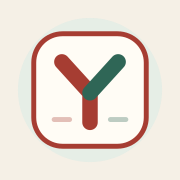
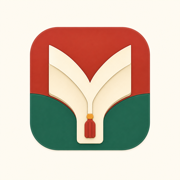
feat: add Lantern Glyph identity

diff --git a/tests/assets.test.ts b/tests/assets.test.ts
@@ -25,6 +25,8 @@ describe("Yuwenke identity assets", () => {
     expect(pngSize("apple-touch-icon.png")).toEqual([180, 180]);
     expect(pngSize("icon-192.png")).toEqual([192, 192]);
     expect(pngSize("icon-512.png")).toEqual([512, 512]);
+    expect(pngSize("yuwenke-mark.png")).toEqual([96, 96]);
+    expect(pngSize("favicon-32.png")).toEqual([32, 32]);
     expect(pngSize("og.png")).toEqual([1200, 630]);
     expect(icoSizes("favicon.ico")).toEqual([16, 32, 48]);
   });

diff --git a/src/components/FlashcardApp.tsx b/src/components/FlashcardApp.tsx
@@ -450,7 +450,7 @@ export default function FlashcardApp({ cards }: FlashcardAppProps) {
         <a className="brand" href={import.meta.env.BASE_URL} aria-label="Yuwenke, inicio">
           <img
             className="brand-mark"
-            src={`${import.meta.env.BASE_URL}yuwenke-mark.svg`}
+            src={`${import.meta.env.BASE_URL}yuwenke-mark.png`}
             alt=""
             width="48"
             height="48"
